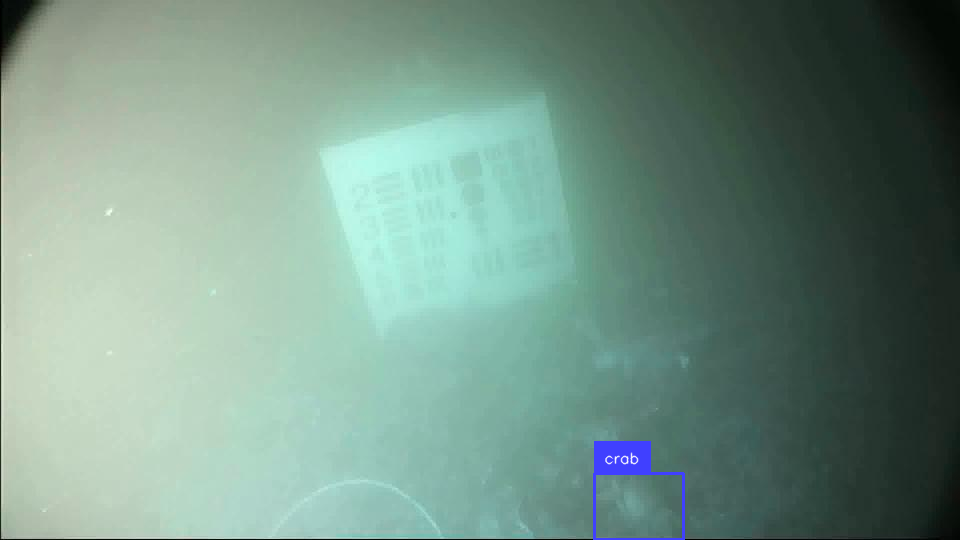
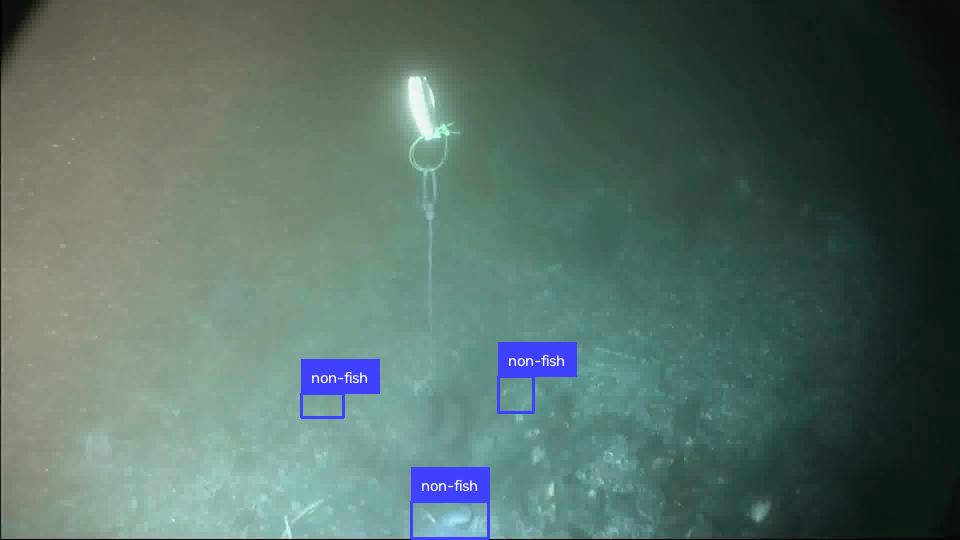
brackish: map classes to fish / non-fish
fish: fish, small_fish
non-fish: crab, starfish, jellyfish, shrimp
discard: animals (Roboflow supercategory, no annotations)

diff --git a/datasets/brackish.py b/datasets/brackish.py
@@ -2,7 +2,10 @@
 Brackish Dataset
 Source: https://public.roboflow.com/ds/vGBLxigwno?key=bhFPGoB3VB
 Split logic: By deployment site (train_test_split on unique deployment identifiers)
-Categories kept: small_fish, fish
+Category mapping:
+  fish: fish, small_fish
+  non-fish: crab, starfish, jellyfish, shrimp
+  discard: animals (Roboflow supercategory, no annotations)
 """
 
 import json
@@ -17,7 +20,7 @@ from datasets.utils import (
     download_file,
     extract_downloaded_file,
     convert_coco_annotations_from_0_indexed_to_1_indexed,
-    compress_annotations_to_single_category,
+    map_annotations_to_fish_and_non_fish,
     split_coco_dataset_into_train_validation,
     add_dataset_shortname_prefix_to_image_names,
     remove_dataset_shortname_prefix_from_image_filename,
@@ -26,7 +29,14 @@ from datasets.utils import (
 
 
 DATASET_SHORTNAME = "brackish_dataset"
-CATEGORIES_FILTER = ["small_fish", "fish"]
+CATEGORIES_FILTER = {
+    "fish": "fish",
+    "small_fish": "fish",
+    "crab": "non-fish",
+    "starfish": "non-fish",
+    "jellyfish": "non-fish",
+    "shrimp": "non-fish",
+}
 
 settings = Settings()
 
@@ -170,19 +180,19 @@ def main():
         coco_annotations_path, coco_annotations_path_1_indexed
     )
 
-    compressed_annotations_path = processing_dir / "annotations_coco_compressed.json"
-    compress_annotations_to_single_category(
-        coco_annotations_path_1_indexed, CATEGORIES_FILTER, compressed_annotations_path
+    mapped_annotations_path = processing_dir / "annotations_coco_mapped.json"
+    map_annotations_to_fish_and_non_fish(
+        coco_annotations_path_1_indexed, CATEGORIES_FILTER, mapped_annotations_path
     )
 
     add_dataset_shortname_prefix_to_image_names(
         coco_images_path,
-        compressed_annotations_path,
+        mapped_annotations_path,
         DATASET_SHORTNAME,
     )
 
     # 3. PREVIEW
-    save_preview_image(coco_images_path, compressed_annotations_path, DATASET_SHORTNAME)
+    save_preview_image(coco_images_path, mapped_annotations_path, DATASET_SHORTNAME)
 
     # 4. SPLIT
     train_deployments = get_list_of_cameras_to_include_in_train_set(coco_images_path)
@@ -204,7 +214,7 @@ def main():
 
     split_coco_dataset_into_train_validation(
         coco_images_path,
-        compressed_annotations_path,
+        mapped_annotations_path,
         train_dataset_path,
         val_dataset_path,
         should_the_image_be_included_in_train_set,

diff --git a/DATASETS.md b/DATASETS.md
@@ -8,7 +8,10 @@ Each dataset script in `datasets/` follows a 4-step pattern: Download -> Process
 - **Source**: [Roboflow](https://public.roboflow.com/ds/vGBLxigwno?key=bhFPGoB3VB)
 - **Download**: Automatic
 - **Annotations**: COCO format (from Roboflow train/val/test splits merged into one)
-- **Category filter**: `small_fish`, `fish`
+- **Category mapping**:
+  - fish: `fish`, `small_fish`
+  - non-fish: `crab`, `starfish`, `jellyfish`, `shrimp`
+  - discard: `animals` (Roboflow supercategory, no annotations)
 - **Split**: By deployment site (extracted from image filename prefix before `_jpg`)
 
 ### deep_vision
